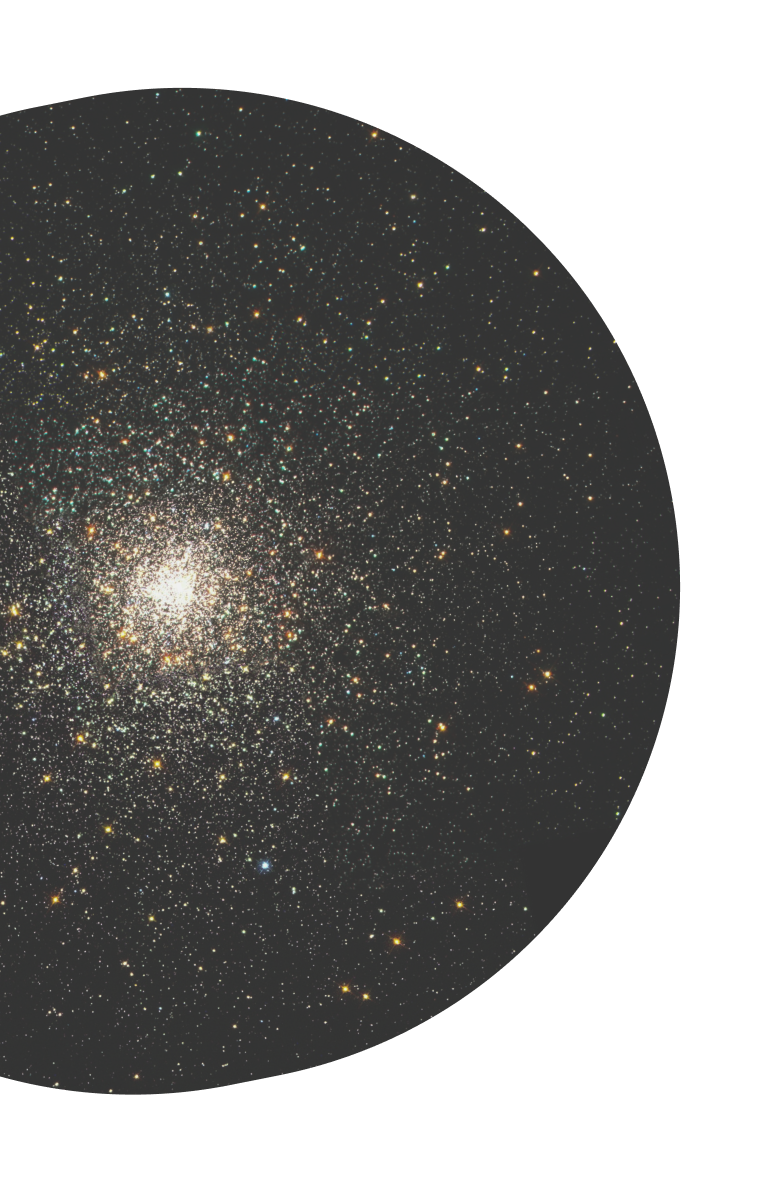
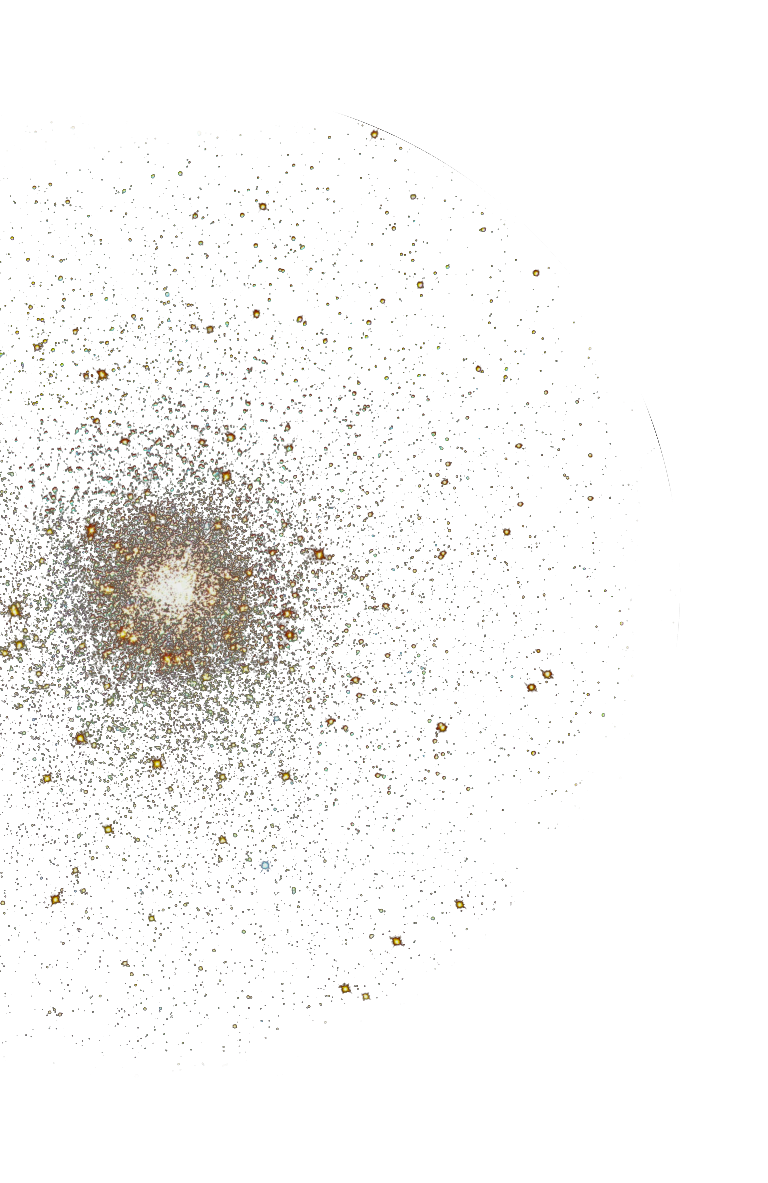
add section-4 backgound

diff --git a/style.css b/style.css
@@ -44,7 +44,7 @@ h4 {
 .main {
     background-image: url(./img/bg-stars.png);
     background-repeat: no-repeat;
-    background-position: left 0 bottom 0;
+    background-position: left 0 bottom 500px;
     background-blend-mode: screen;
 }
 
@@ -177,18 +177,16 @@ h4 {
 }
 
 .sec4 {
-    /* background-color: #ffffff20; */
-    background-image: linear-gradient( #97adda00, #2c639470);
-    /* background-image: url(./img/04.png); */
-    /* background-position: center; */
-    /* background-size: cover; */
+    background-image: linear-gradient( #2c639400, #2c639470), url(./img/se4bg.png);
+    background-repeat: no-repeat;
+    background-position: right;
+    background-size: cover;
     backdrop-filter: blur(2px);
     margin-top: 120px;
     height: 400px;
     display: flex;
     justify-content: center;
     align-items: center;
-    /* border-bottom: 3px solid #ffffff; */
     line-height: 1.6;
 }
 
